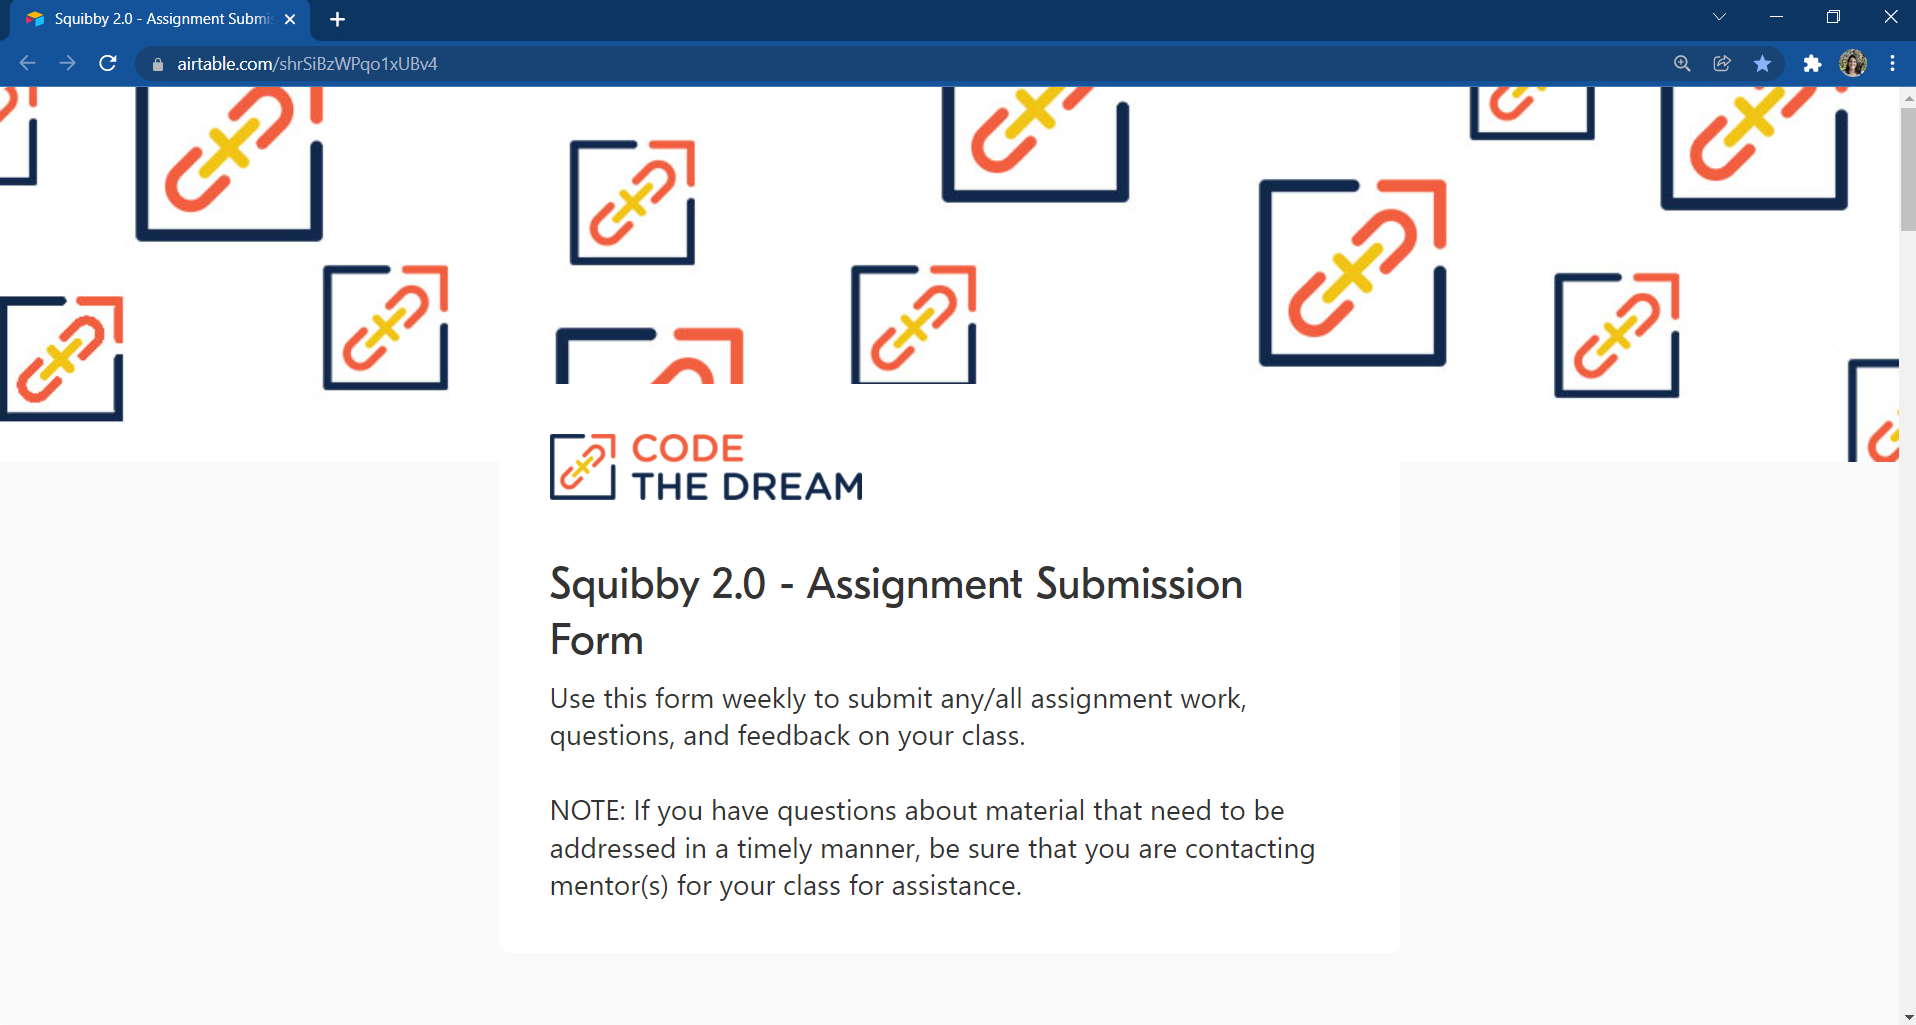
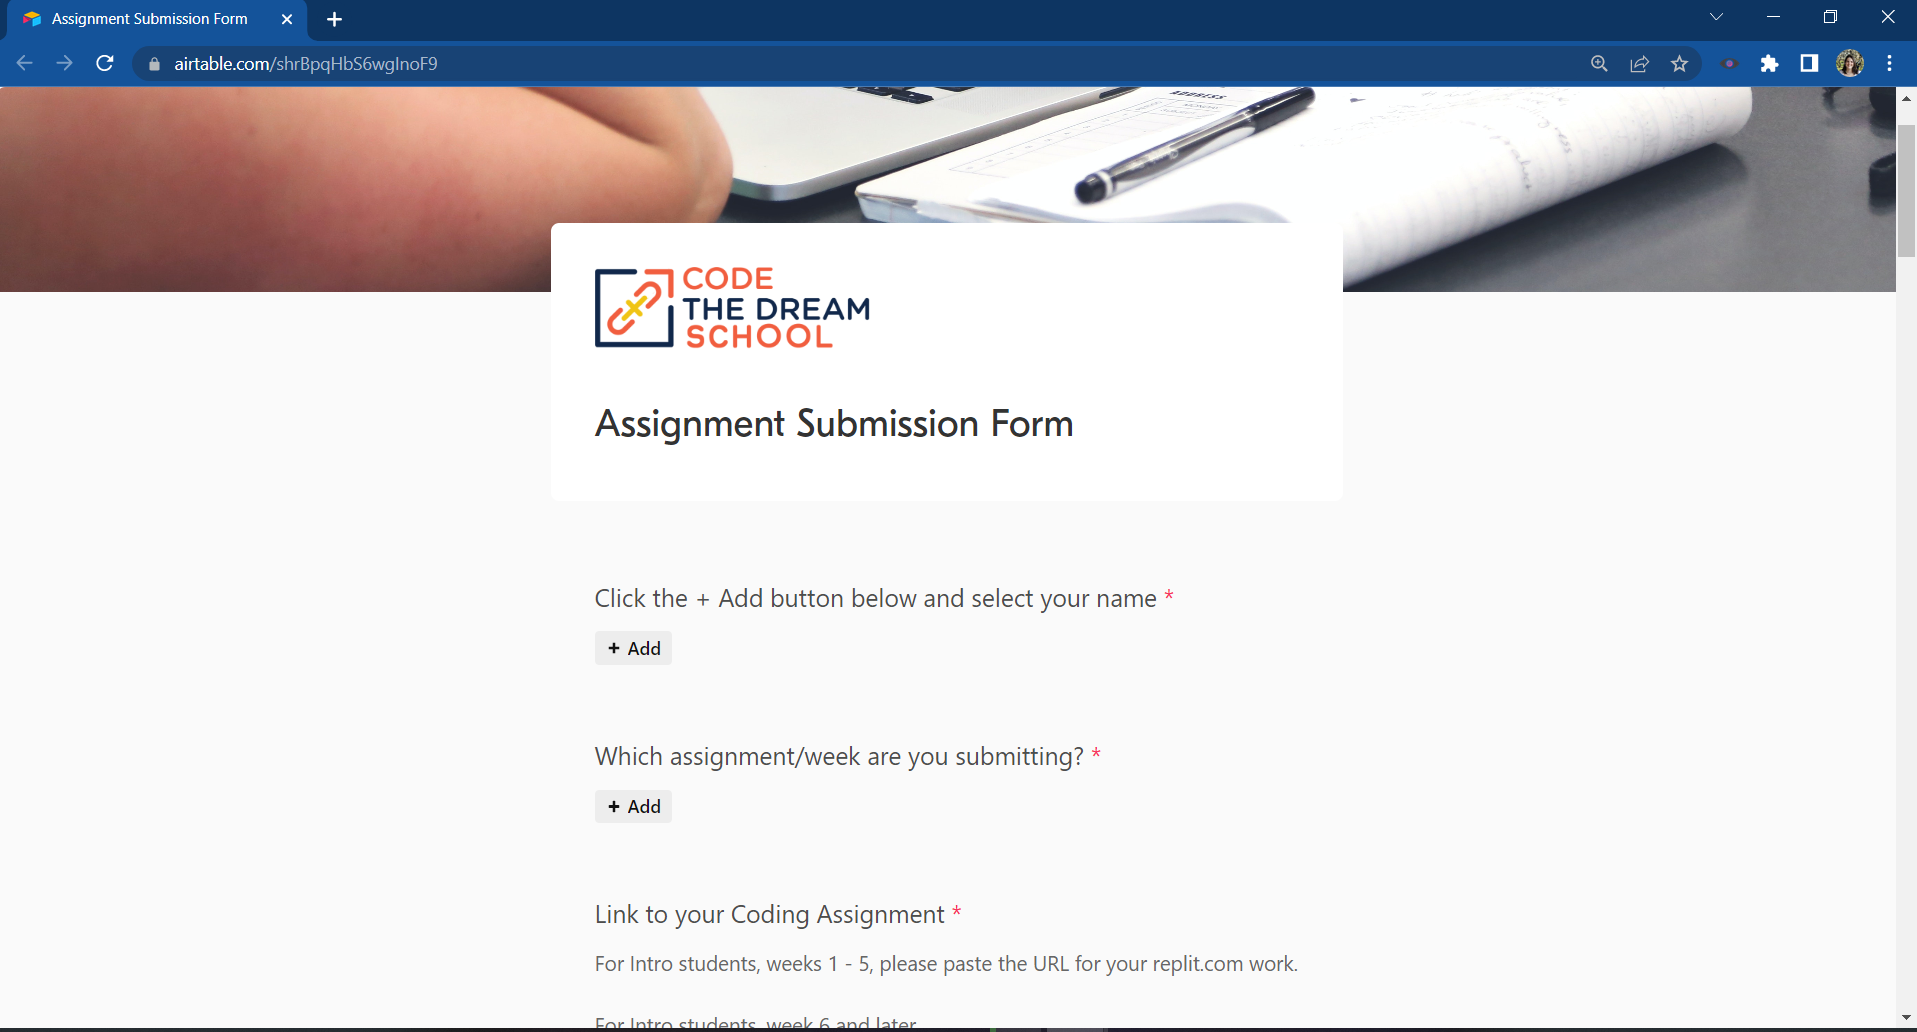
first commit

diff --git a/instructions/common/how-to-submit.md b/instructions/common/how-to-submit.md
@@ -2,7 +2,7 @@
 
 # How to: Submit an Assignment
 
-## Step 1: In your Slack class announcements channel click the Submit Assignment bookmark OR at the bottom of your lesson page click the link for Squibby 2.0.  You can also get to the submission form using this link: [Squibby 2.0 Assignment Submission Form](https://airtable.com/shrSiBzWPqo1xUBv4)
+## Step 1: In your Slack class announcements channel click the Submit Assignment bookmark OR at the bottom of your lesson page click the link for Homework Assignment Submission Form.  You can also get to the submission form using this link: [Assignment Submission Form](https://airtable.com/shrBpqHbS6wgInoF9)
 
 ![Submit Assignment: Step 1](../assets/submit-assignment/getting-to-submission-form.png)
 
